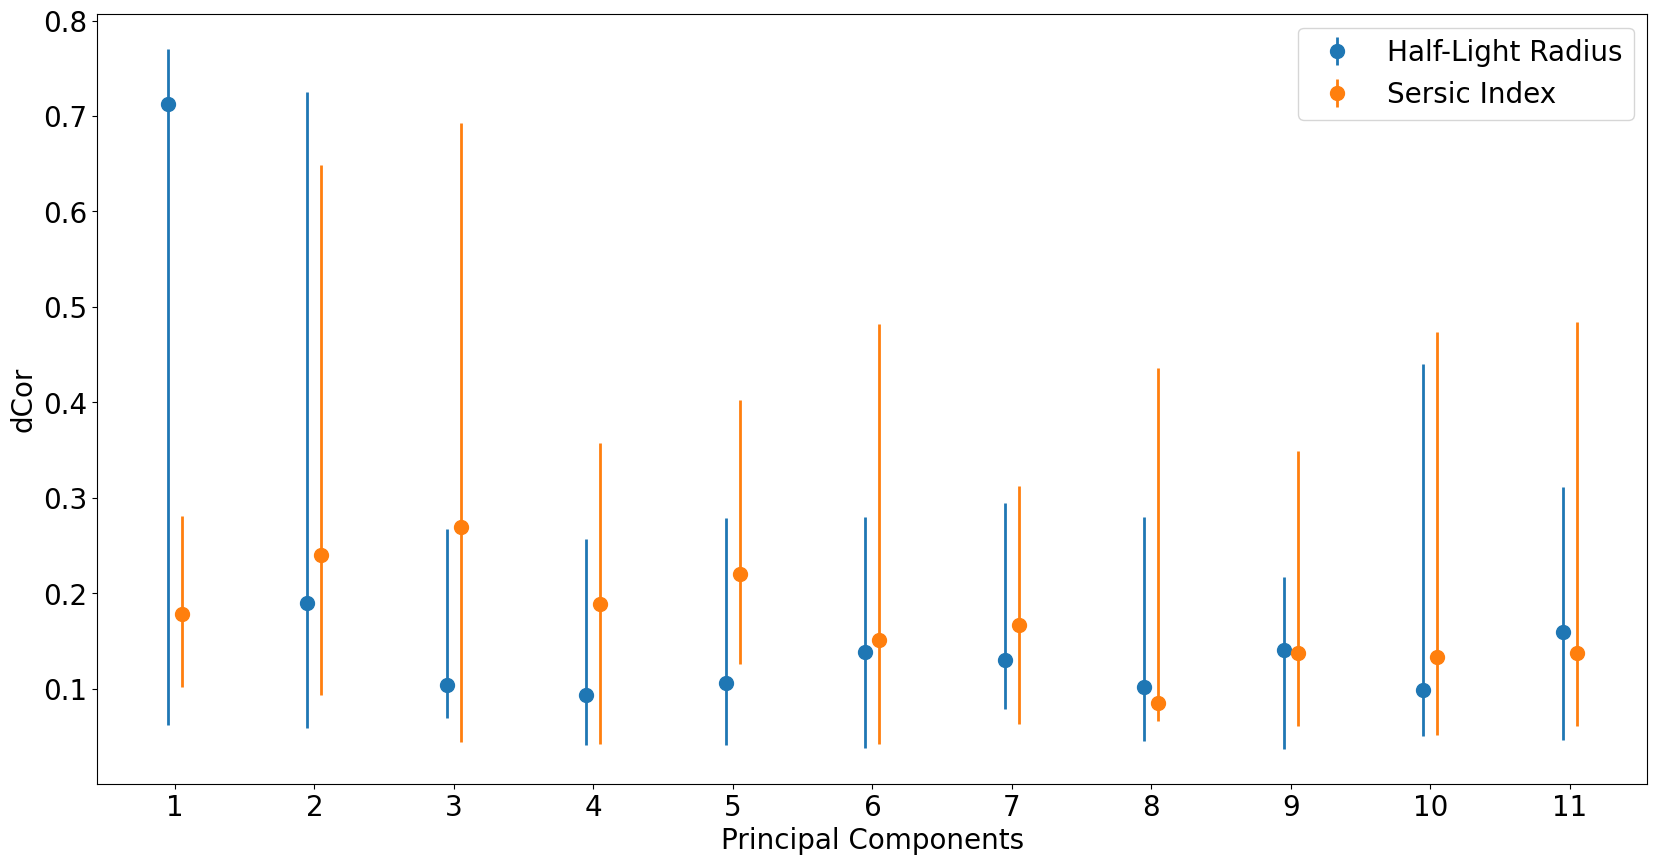
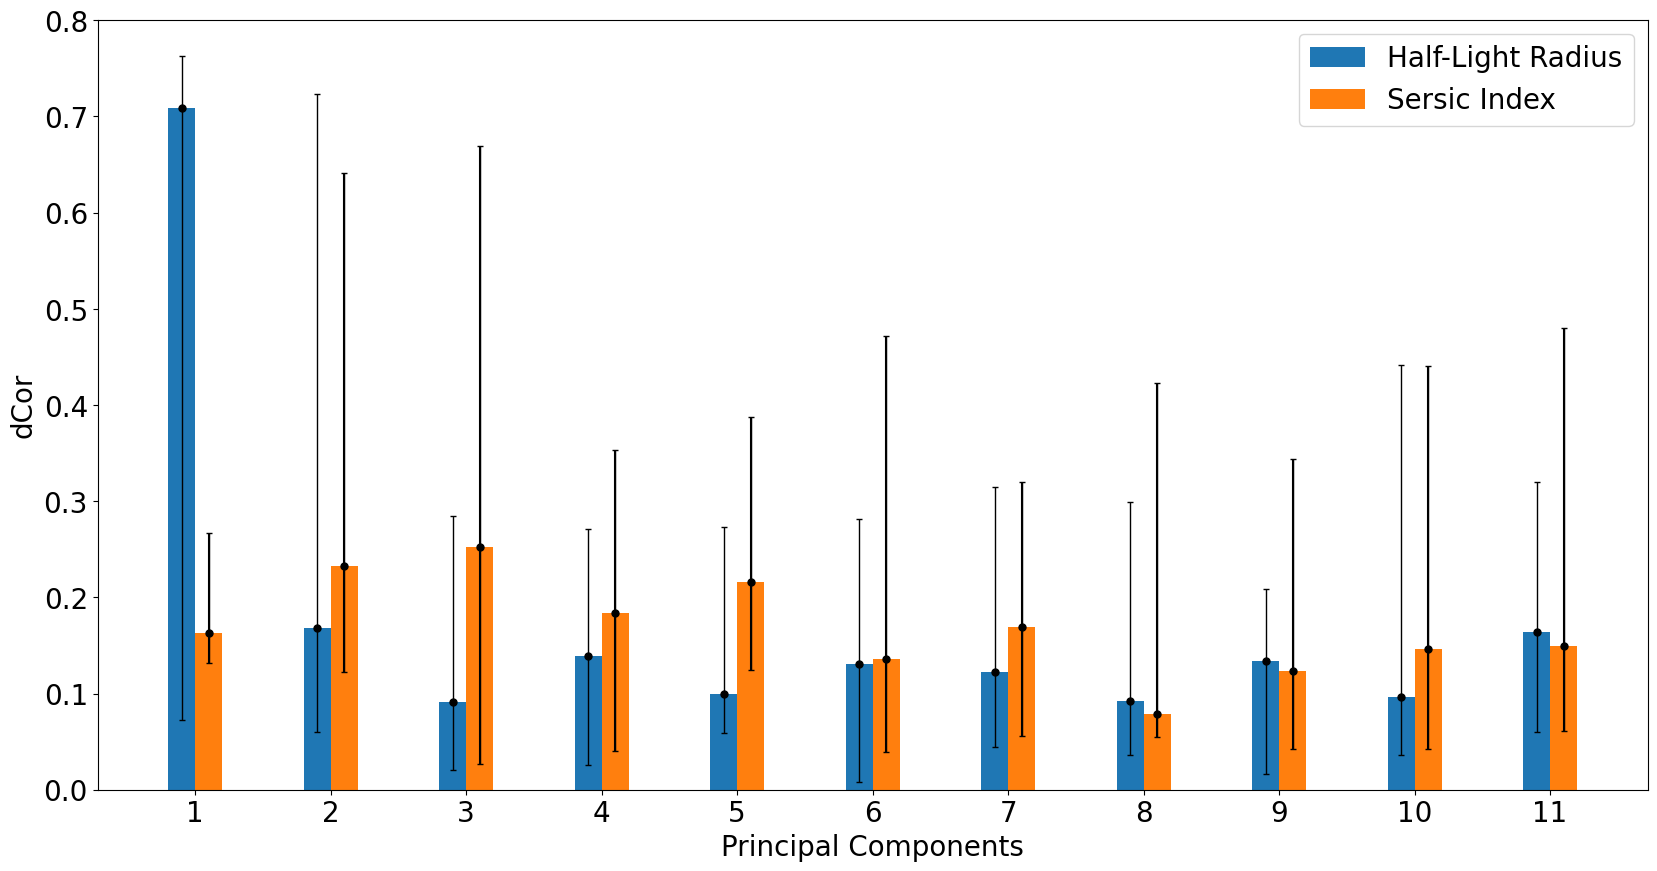
Code

diff --git a/comparison-runs.py b/comparison-runs.py
@@ -372,14 +372,19 @@ radius_error = [radius_correlation.T[1]-radius_correlation.T[0], radius_correlat
 sersic_error = [sersic_correlation.T[1]-sersic_correlation.T[0], sersic_correlation.T[2]-sersic_correlation.T[1]]
 
 default_x = np.array(range(1, 12))
-radius_x = default_x - 0.05
-sersic_x = default_x + 0.05
+radius_x = default_x - 0.1
+sersic_x = default_x + 0.1
 
 fig, axs = plt.subplots(1, 1, figsize=(20, 10))
 
 # axs.scatter(x=range(1, 12), y=sersic_correlation.T[1])
-axs.errorbar(x=radius_x, y=radius_correlation.T[1], yerr=radius_error, fmt="o", label="Half-Light Radius", markersize=10, lw=2)
-axs.errorbar(x=sersic_x, y=sersic_correlation.T[1], yerr=sersic_error, fmt="o", label="Sersic Index", markersize=10, lw=2)
+axs.bar(radius_x, radius_correlation.T[1], label="Half-Light Radius", width=0.2)
+axs.errorbar(x=radius_x, y=radius_correlation.T[1], yerr=radius_error, fmt="o", color="black", capsize=2, markersize=5, lw=1)
+# axs.errorbar(x=radius_x, y=radius_correlation.T[1], yerr=radius_error, fmt="o", label="Half-Light Radius", markersize=10, lw=2)
+
+axs.bar(sersic_x, sersic_correlation.T[1], yerr=sersic_error, label="Sersic Index", width=0.2)
+axs.errorbar(x=sersic_x, y=sersic_correlation.T[1], yerr=sersic_error, fmt="o", color="black", capsize=2, markersize=5, lw=1)
+# axs.errorbar(x=sersic_x, y=sersic_correlation.T[1], yerr=sersic_error, fmt="o", label="Sersic Index", markersize=10, lw=2)
 
 axs.set_ylabel("dCor", fontsize=20)
 axs.set_xlabel("Principal Components", fontsize=20)
